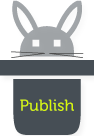
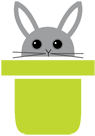
Event creation/updating button fix

diff --git a/app/styles/app.less b/app/styles/app.less
@@ -638,6 +638,8 @@ img.placeholderImage {width:125px;height:100px;}
             top: -100px;
             width: 94px;
             height: 136px;
+            left: 151px;
+            line-height: 202px;
             background: url('/client/images/publish_no_howie.png') 0px 0px no-repeat transparent;
         }
         .saveButton:hover {
